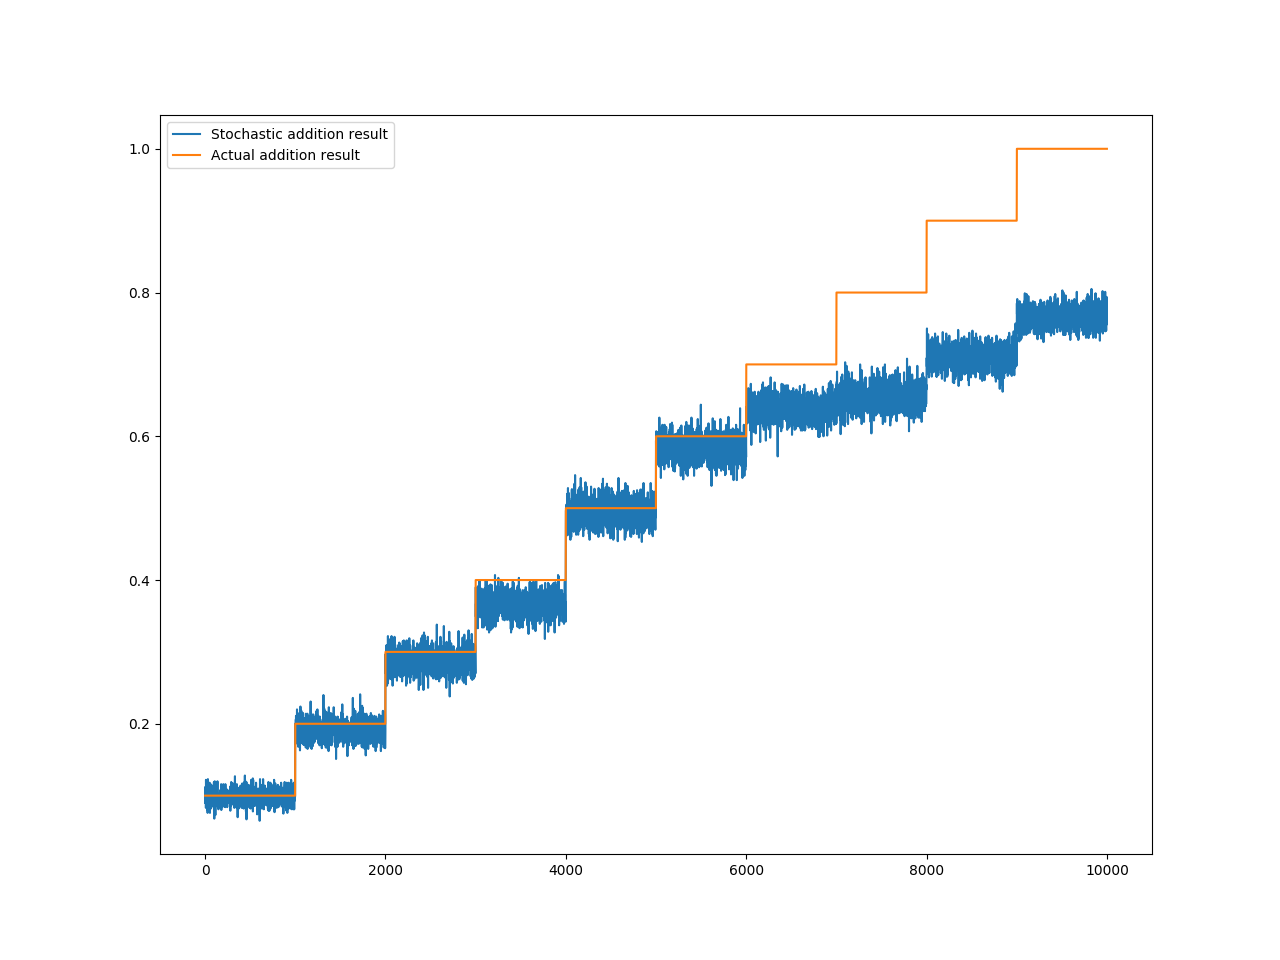
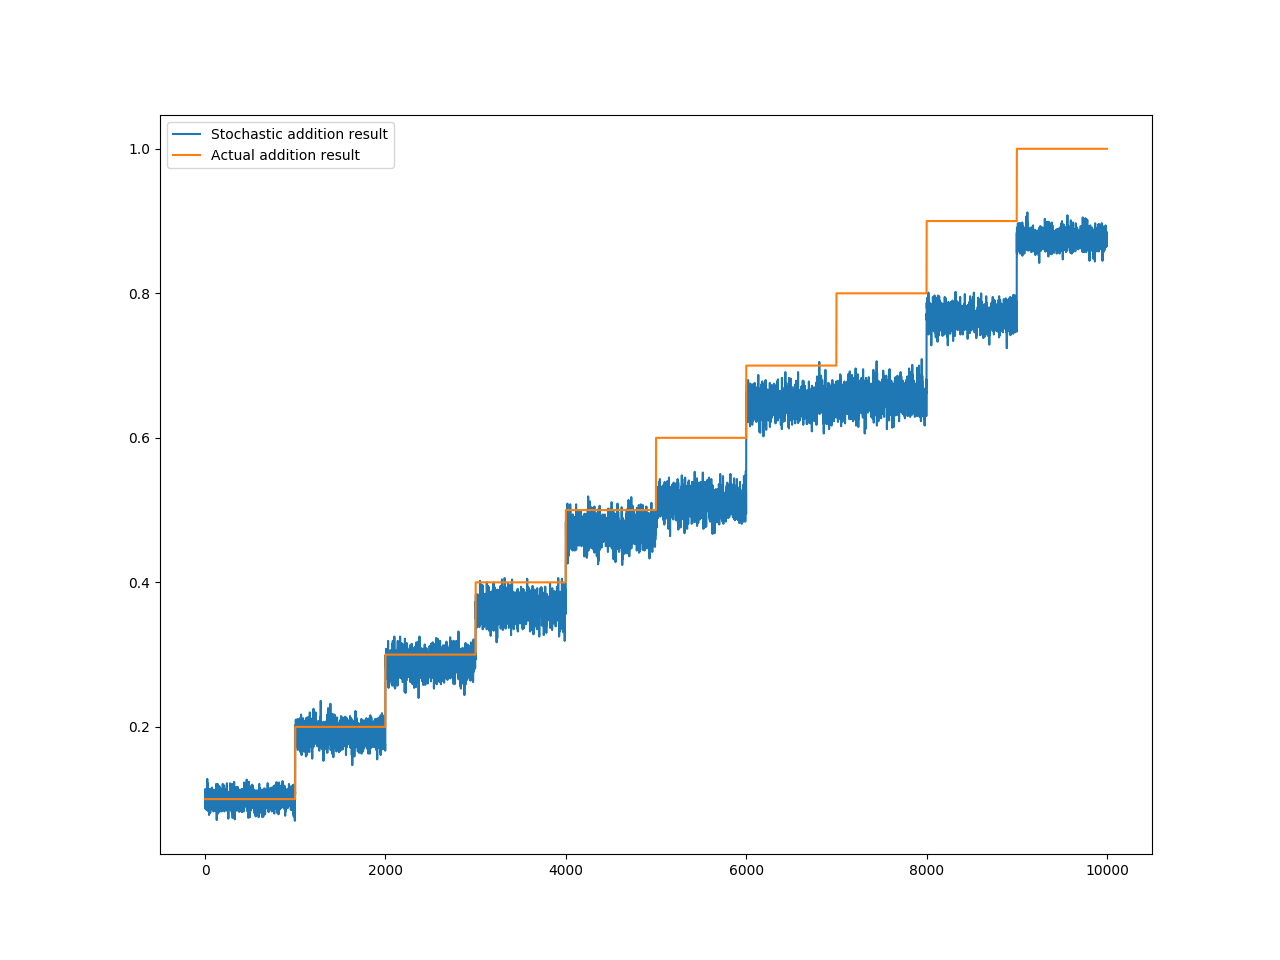
Code/folder cleanup

diff --git a/demos/stochastic.py b/demos/stochastic.py
@@ -18,62 +18,78 @@ class StochasticNumber:
     def __init__(self,length,prob1,prob2):
         random = secrets.SystemRandom()
 
-        self.stochnum1 = [1 if random.random() <= prob1 else 0 for n in range(length)]
-        self.stochnum2 = [1 if random.random() <= prob2 else 0 for n in range(length)]
-
-        # self.stochnum1 = [1]*math.ceil(length*prob1)
-        # self.stochnum1 += [0]*math.ceil(length*(1-prob1))
-        # random.shuffle(self.stochnum1)
-        # self.stochnum2 = [1]*math.ceil(length*prob2)
-        # self.stochnum2 += [0]*math.ceil(length*(1-prob2))
-        # random.shuffle(self.stochnum2)
-
-        # print(self.stochnum1)
-        # print(self.stochnum2)
-
-        #This doesn't seem correct
-        #self.stochnum1 = [0 for n in range(length)]
-        #for n in range(int(length*prob1)):
-        #    self.stochnum1[secrets.randbelow(length)] = 1
-
-        #self.stochnum2 = [0 for n in range(length)]            
-        #for n in range(int(length*prob2)):
-        #    self.stochnum2[secrets.randbelow(length)] = 1
-            
         self.length = length
-        self.out = [0 for n in range(length)]
-        self.probOut = 0.0
+        self.stochnum1 = [random.random() <= prob1 for n in range(length)]
+        self.stochnum2 = [random.random() <= prob2 for n in range(length)]
 
     def add(self):
-        self.Sel = [secrets.randbelow(2) for n in range(self.length)] # this will (on average) give weighting of 0.5
+        out = [0 for n in range(self.length)]
+        sel = [secrets.randbelow(2) for n in range(self.length)] # this will (on average) give weighting of 0.5
 
-        #for k in range(self.length):
-        #    if self.Sel[k]==0:              #Add is a multiplexer with 2 inputs and select line that is on average 0.5
-        #        self.out[k]=self.stochnum1[k]
-        #    else:
-        #        self.out[k]=self.stochnum2[k]
-
+        # Non saturating addition
         for k in range(self.length):
-            self.out[k] = self.stochnum1[k] | self.stochnum2[k] #saturating addition is just logical OR
+            # Add is a multiplexer with 2 inputs and select line that is on average 0.5
+            if sel[k]:              
+                out[k]=self.stochnum2[k]
+            else:
+                out[k]=self.stochnum1[k]
 
-        probOut = float(sum(self.out))/float(self.length)
-        return probOut
+        # Saturating addition
+        #for k in range(self.length):
+        #    out[k] = self.stochnum1[k] | self.stochnum2[k] #Saturating addition is just logical OR
+
+        prob_out = sum(out)/float(self.length)
+        return prob_out
     
     def multiply(self):
+        out = [0 for n in range(self.length)]
         for k in range(self.length):
-            self.out[k] = (self.stochnum1[k] & self.stochnum2[k]) #multiply is just logical AND
-        self.probOut = float(sum(self.out))/float(self.length)
-        return self.probOut
+            out[k] = (self.stochnum1[k] & self.stochnum2[k]) # multiply is just logical AND
+        prob_out = sum(out)/float(self.length)
+        return prob_out
+
+class BiStochasticNumber:
+    def __init__(self,length,prob1,prob2):
+        random = secrets.SystemRandom()
+
+        self.length = length
+        self.stochnum1 = [random.random() <= (prob1+1)/2 for n in range(length)]
+        self.stochnum2 = [random.random() <= (prob2+1)/2 for n in range(length)]
+
+    def add(self):
+        out = [0 for n in range(self.length)]
+        sel = [secrets.randbelow(2) for n in range(self.length)] # this will (on average) give weighting of 0.5
+
+        # Non saturating addition
+        for k in range(self.length):
+            # Add is a multiplexer with 2 inputs and select line that is on average 0.5
+            if sel[k]:              
+                out[k]=self.stochnum2[k]
+            else:
+                out[k]=self.stochnum1[k]
+
+        # Saturating addition
+        #for k in range(self.length):
+        #    out[k] = self.stochnum1[k] | self.stochnum2[k] #Saturating addition is just logical OR
+
+        prob_out = sum(out)/float(self.length)
+        return (prob_out*2)-1
+    
+    def multiply(self):
+        out = [0 for n in range(self.length)]
+        for k in range(self.length):
+            out[k] = not (self.stochnum1[k] ^ self.stochnum2[k]) # multiply is just logical AND
+
+        prob_out = sum(out)/float(self.length)
+        return (prob_out*2)-1
 
 #main
 import random
-iters = 1000
 
-z = 0.1
-prob1 = random.random()*(z/2)
-prob2 = z-prob1
-
-print(prob1+prob2)
+z = -1
+prob1 = 0.5 #random.random()*2-1 #(-1 to 1)
+prob2 = 0.25 #random.random()*2-1 #(-1 to 1)
+#prob2 = z-prob1
 
 resultAdd = []
 resultMul = []
@@ -86,15 +102,14 @@ resultMulAbs = []
 
 averageMulList = []
 averageAddList = []
-ROLLING = 30
 
 for i in range(1,10000):
     if (i%1000==0):
-        z += 0.1
-        prob1 = random.random()*(z/2)
-        prob2 = z-prob1
+        #z += 0.1
+        #prob1 = random.random()*(z/2)
+        #prob2 = z-prob1
         print(i)
-    SN = StochasticNumber(1000,prob1,prob2)
+    SN = BiStochasticNumber(i,prob1,prob2)
 
     add = SN.add()
     multiply = SN.multiply()
@@ -112,27 +127,29 @@ for i in range(1,10000):
 width = 6.4*2
 height = 4.8*2
 
-#plt.figure(frameon=False, figsize=(width, height))
-#plt.plot(resultMul, label='Stochastic multiplication result')
-#plt.plot(actualMul, label='Actual multiplication result')
-#plt.legend()
-#plt.xlabel('Bit Length')
-#plt.savefig('Figure_1.png')
-#
 plt.figure(frameon=False, figsize=(width, height))
-plt.plot(resultAdd, label='Stochastic addition result')
-plt.plot(actualAdd, label='Actual addition result')
+plt.plot(resultMul, label='Stochastic multiplication result')
+plt.plot(actualMul, label='Actual multiplication result')
+plt.ylim(bottom=0, top=0.35)
 plt.legend()
-#plt.xlabel('')
-plt.savefig('Figure_3_sss.png')
-#
+plt.xlabel('Bit Length')
+#plt.show()
+plt.savefig('Figure_1_bi.png')
+
 #plt.figure(frameon=False, figsize=(width, height))
-#plt.ylim(top=0.2)
-#plt.bar([i for i in range(1,iters)], resultMulAbs, label='Multiplication Absolute Difference') #0.5x025 = 0.125 is the expected output for prob1 = 0.5 and prob2 = 0.25
+#plt.plot(resultAdd, label='Stochastic addition result')
+#plt.plot(actualAdd, label='Actual addition result')
 #plt.legend()
-#plt.xlabel('Bit Length')
-#plt.savefig('Figure_1-abs.png')
-#
+##plt.xlabel('')
+#plt.savefig('Figure_3_sss.png')
+
+plt.figure(frameon=False, figsize=(width, height))
+plt.ylim(top=0.2)
+plt.bar([i for i in range(1,10000)], resultMulAbs, label='Multiplication Absolute Difference') #0.5x025 = 0.125 is the expected output for prob1 = 0.5 and prob2 = 0.25
+plt.legend()
+plt.xlabel('Bit Length')
+plt.savefig('Figure_1_bi_abs.png')
+
 #plt.figure(frameon=False, figsize=(width, height))
 #plt.ylim(top=0.2)
 #plt.bar([i for i in range(1,iters)], resultAddAbs, label='Addition Absolute Difference') #0.5x025 = 0.125 is the expected output for prob1 = 0.5 and prob2 = 0.25

diff --git a/demos/split-stochastic.py b/demos/split-stochastic.py
@@ -42,7 +42,7 @@ def test():
   sfa = [sf1[i] & sf2[i] for i in range(BIT_LENGTH_FLOAT)]
   sda = [sd1[i] & sd2[i] for i in range(BIT_LENGTH_DECIMAL)]
   
-  mult = 0 #sum(sda)/float(BIT_LENGTH_DECIMAL)*float(RANDOM_RANGE) + (sum(sfa)/float(BIT_LENGTH_FLOAT))
+  mult = sum(sda)/float(BIT_LENGTH_DECIMAL)*float(RANDOM_RANGE) + (sum(sfa)/float(BIT_LENGTH_FLOAT))
   add = sum(sdo)/float(BIT_LENGTH_DECIMAL)*float(RANDOM_RANGE) + (sum(sfo)/float(BIT_LENGTH_FLOAT))
 
   sd1 = [random_() <= v1/float(RANDOM_RANGE) for _ in range(BIT_LENGTH_DECIMAL+BIT_LENGTH_FLOAT)]
@@ -57,8 +57,10 @@ def test():
   #print(sum(sdo))
   #print(sum(sdo)/float(BIT_LENGTH_DECIMAL+BIT_LENGTH_FLOAT)*float(RANDOM_RANGE))
 
-  nmult = 0
-  nadd = sum(sdo)/float(BIT_LENGTH_DECIMAL+BIT_LENGTH_FLOAT)*float(RANDOM_RANGE)# + (sum(sfo)/float(BIT_LENGTH_FLOAT))
+  sda = [sd1[i] & sd2[i] for i in range(BIT_LENGTH_DECIMAL+BIT_LENGTH_FLOAT)]
+
+  nmult = sum(sda)/float(BIT_LENGTH_DECIMAL+BIT_LENGTH_FLOAT)*float(RANDOM_RANGE)
+  nadd = sum(sdo)/float(BIT_LENGTH_DECIMAL+BIT_LENGTH_FLOAT)*float(RANDOM_RANGE)
 
   return actual_mult, actual_add, mult, add, nmult, nadd
 
@@ -73,11 +75,13 @@ for i in range(10000):
   if (i%1000==0):
     print(i)
 
-  aa.append(actual_add)
-  ast.append(abs(actual_add-stochastic_add*2))
-  #print('a',actual_add)
-  #print(nstochastic_add)
-  anst.append(abs(actual_add-nstochastic_add*2))
+  #aa.append(actual_add)
+  #ast.append(abs(actual_add-stochastic_add))
+  #anst.append(abs(actual_add-nstochastic_add))
+
+  aa.append(actual_mult)
+  ast.append(abs(actual_mult-stochastic_mult))
+  anst.append(abs(actual_mult-nstochastic_mult))
 
 #print("Actual multiplication: ", actual_mult)
 #print("Actual addition: ", actual_add)
